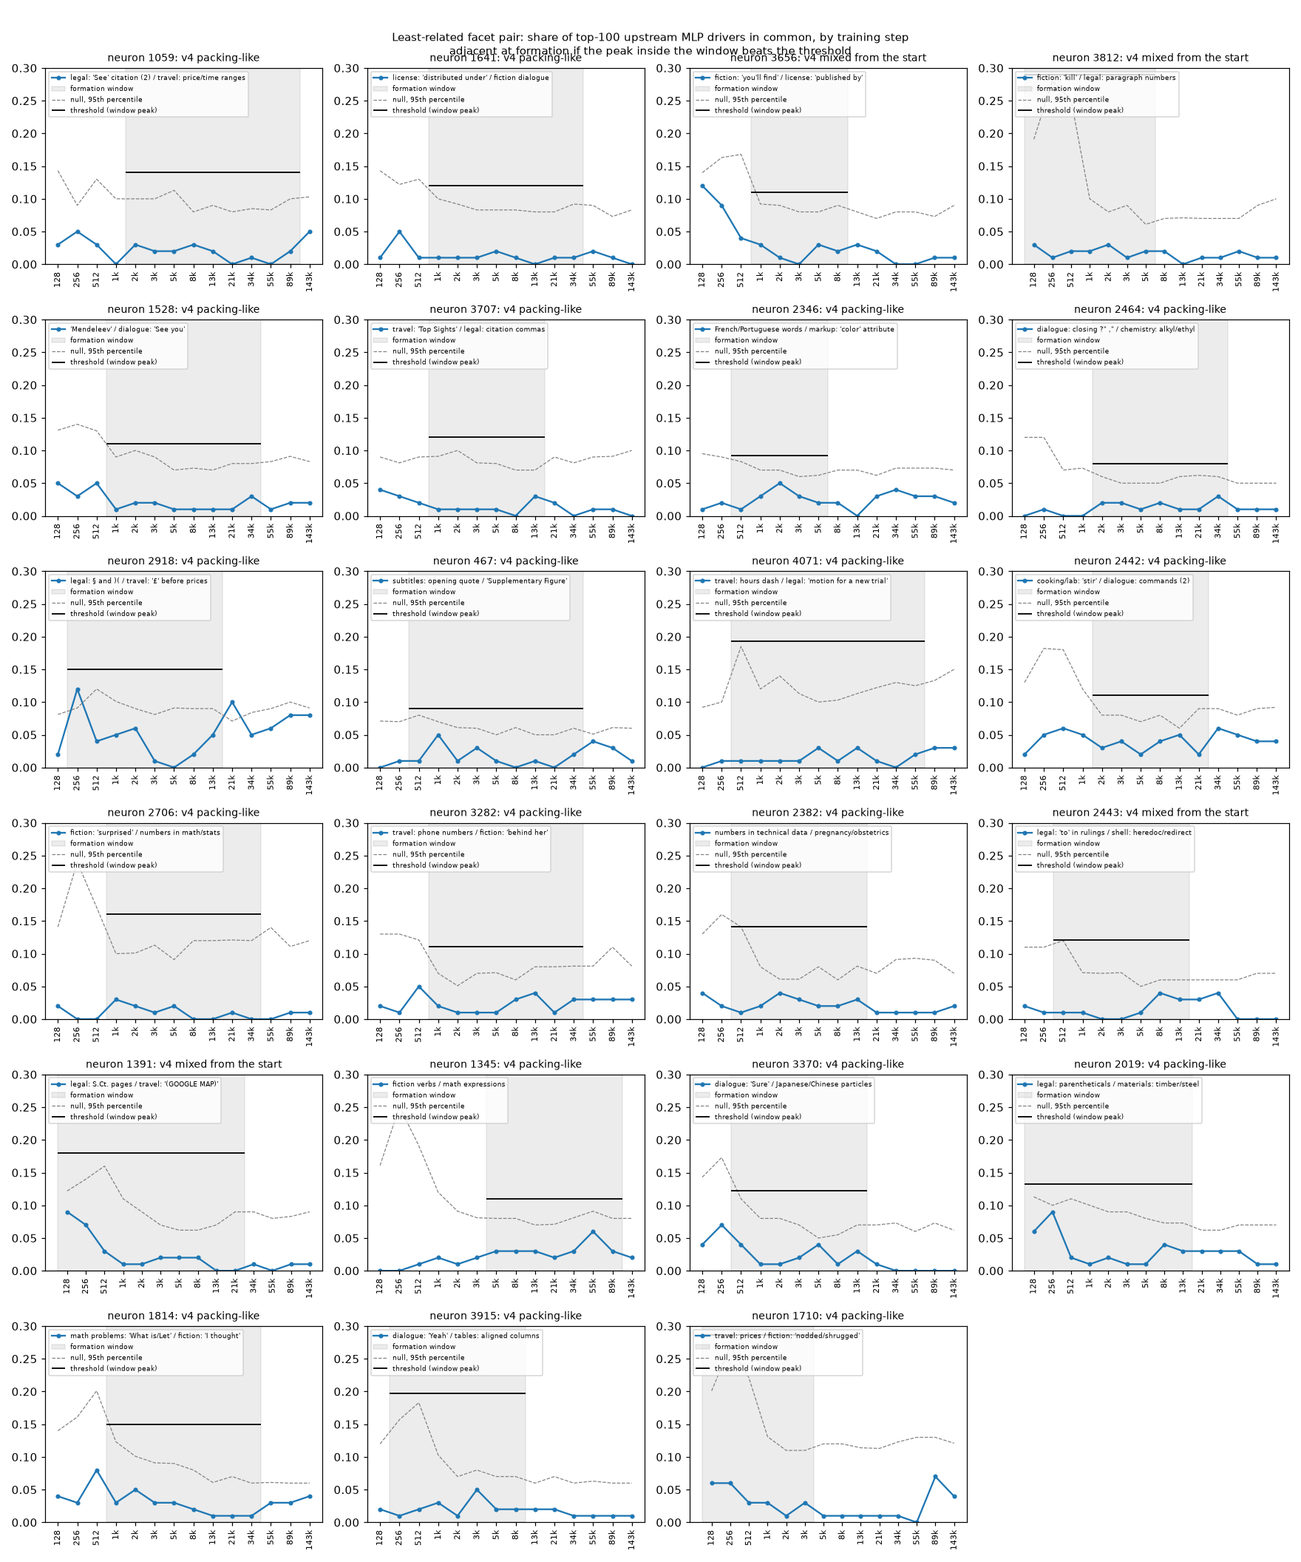
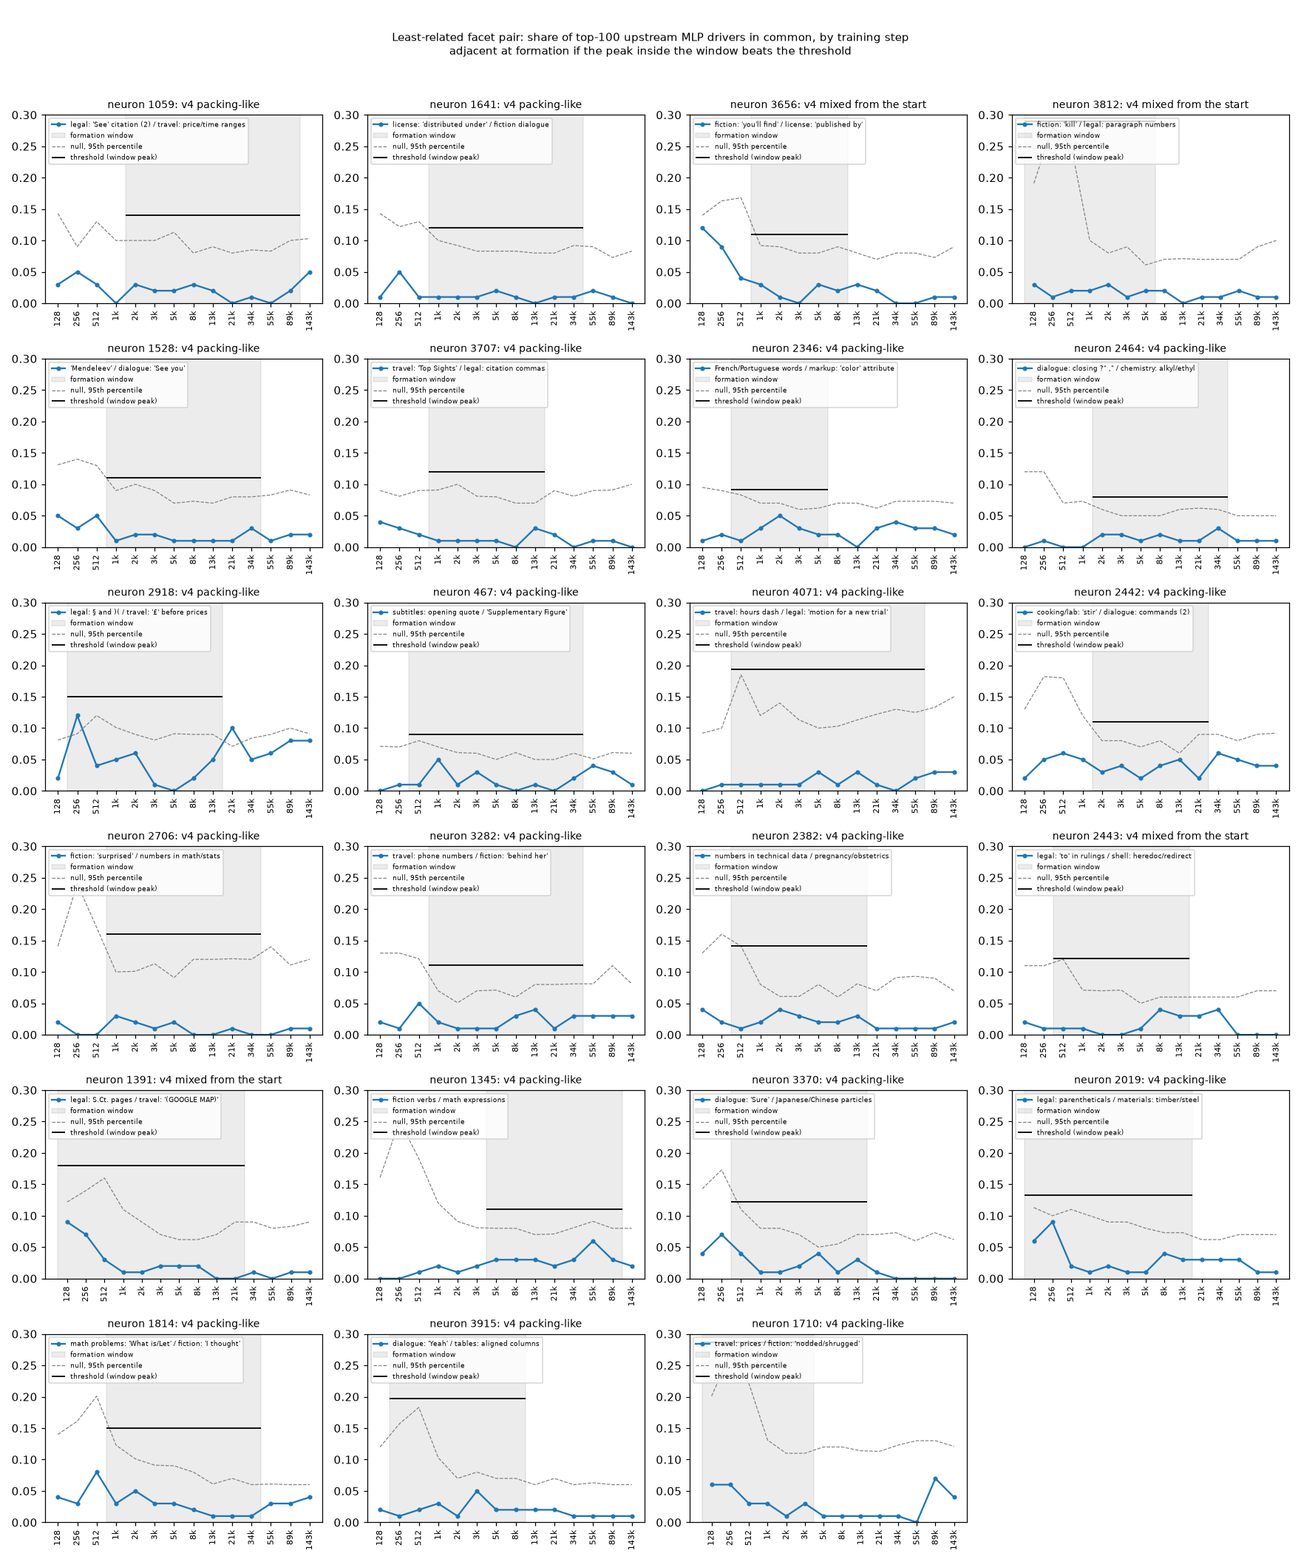
Add post-review checks to v4 and a non-circular head test
An independent review found no bugs but asked for checks the README
quoted from scratch scripts. They are now exploratory stats in the
pipeline. Also fixes the figure title overlap and report facet names.

diff --git a/recgen/analyze_v4.py b/recgen/analyze_v4.py
@@ -35,7 +35,8 @@ def step_summary(step: int, candidates: list[dict]) -> dict:
     rows = {(c["neuron"], f): [row[(w, p)] for w, p, _ in facet] for c in candidates for f, facet in enumerate(c["facets"])}
     shifts = {key: scaled[r].mean(axis=0) - scaled[n_facet:].mean(axis=0) for key, r in rows.items()}
     head_shifts = {key: heads[r].mean(axis=0) - heads[n_facet:].mean(axis=0) for key, r in rows.items()}
-    summary = {"mlp": {}, "heads": {}, "gains": {}, "shares": {}, "reconstruction_error": float(data["reconstruction_error"])}
+    summary = {"mlp": {}, "heads": {}, "gains": {}, "rises": {}, "shares": {},
+               "reconstruction_error": float(data["reconstruction_error"])}
     for k, n in enumerate(neurons):
         for key in rows:
             summary["mlp"][n, key] = drivers(shifts[key] * coefficients[:, k], TOP_UNITS)
@@ -44,6 +45,7 @@ def step_summary(step: int, candidates: list[dict]) -> dict:
         k = neurons.index(n)
         summary["gains"][n, f] = float(np.median(data["pre"][r, k]) - np.median(data["pre"][n_facet:, k]))
         rise = {p: float(data[f"part_{p}"][r, k].mean() - data[f"part_{p}"][n_facet:, k].mean()) for p in PARTS}
+        summary["rises"][n, f] = rise
         summary["shares"][n, f] = {p: v / sum(rise.values()) for p, v in rise.items()}
     return summary
 
@@ -156,6 +158,54 @@ def summarize(results: list[dict], steps: list[dict], v1_rows: dict) -> dict:
     return summary
 
 
+def exploratory_stats(results: list[dict], steps: list[dict], v1_rows: dict) -> dict:
+    """Not pre-registered: checks added after an independent review of the first v4 results."""
+    least = {r["neuron"]: least_related_pair(v1_rows[r["neuron"]]) for r in results}
+    # Does v4's formation timing agree with v1's emergence order for the least-related pair?
+    order, concurrent = Counter(), 0
+    for r in results:
+        i, j = map(int, least[r["neuron"]].split("-"))
+        wi, wj = r["formation_windows"][i], r["formation_windows"][j]
+        concurrent += wi[0] <= wj[1] and wj[0] <= wi[1]
+        ei, ej = r["emergence_steps"][i], r["emergence_steps"][j]
+        if ei != ej:
+            earlier, later = (wi, wj) if ei < ej else (wj, wi)
+            order["v1-later facet starts forming first" if later[0] < earlier[0]
+                  else "both start at the same checkpoint" if later[0] == earlier[0] else "same order as v1"] += 1
+    # Uncorrected: in-window checkpoints where an unrelated pair beats that checkpoint's null 95th percentile.
+    beats, tests = 0, 0
+    for r in results:
+        for p in r["mlp"]["pairs"].values():
+            if p["v2_adjacent"] or not p.get("window"):
+                continue
+            for t in range(STEPS.index(p["window"][0]), STEPS.index(p["window"][1]) + 1):
+                beats += p["series"][t] > p["null_p95_series"][t]
+                tests += 1
+    least_above = {r["neuron"]: sum(s > q for s, q in zip(p["series"], p["null_p95_series"]))
+                   for r in results for p in [r["mlp"]["pairs"][least[r["neuron"]]]]}
+    # Head drivers judged at the end by heads too, instead of by v2's MLP adjacency.
+    heads_formation_not_end = [f"{r['neuron']} {k}" for r in results for k, p in r["heads"]["pairs"].items()
+                               if p.get("window") and p["adjacent"] and p["series"][-1] <= p["null_p95_series"][-1]]
+    # Pooled source shares: each source's summed rise over all facets, over the summed total rise.
+    pooled = {part: {} for part in ("mlp_neurons", "attention_heads", "embedding")}
+    nonpositive = {}
+    for step, s in zip(STEPS, steps):
+        rises = list(s["rises"].values())
+        total = sum(sum(rise.values()) for rise in rises)
+        for part in pooled:
+            pooled[part][str(step)] = round(sum(rise[part] for rise in rises) / total, 3)
+        nonpositive[str(step)] = sum(sum(rise.values()) <= 0 for rise in rises)
+    return {
+        "least_related_windows_overlapping": concurrent,
+        "least_related_formation_order_vs_v1": order,
+        "unrelated_in_window_checkpoints_above_step_null_p95": f"{beats} of {tests}",
+        "least_related_checkpoints_above_step_null_p95": {n: c for n, c in least_above.items() if c},
+        "heads_adjacent_at_formation_not_at_end_by_heads": heads_formation_not_end,
+        "pooled_source_share_by_step": pooled,
+        "facets_with_nonpositive_rise_by_step": nonpositive,
+    }
+
+
 def write_report(results: list[dict], hand_picked: dict, v1_rows: dict) -> None:
     lines = ["# v4 results per neuron\n",
              "For each facet pair: the formation window (steps), the largest driver overlap inside it (peak), "
@@ -163,11 +213,11 @@ def write_report(results: list[dict], hand_picked: dict, v1_rows: dict) -> None:
              "adjacent at formation and at the final checkpoint (v2). MLP-neuron drivers are the primary measure.\n"]
     for r in results:
         n = r["neuron"]
-        names = hand_picked.get(str(n), {}).get("facets") or [f"facet {i}" for i in range(len(r["emergence_steps"]))]
+        names = hand_picked.get(str(n), {}).get("facets")
         lines.append(f"## Neuron {n}: v1 {r['v1_label']}, v2 {r['v2_label']}, v4 {r['mlp']['label']} "
                      f"(heads: {r['heads']['label']})\n")
-        lines += [f"- facet {i}, {name}: v1 emergence {s}, forms over {w}" for i, (name, s, w)
-                  in enumerate(zip(names, r["emergence_steps"], r["formation_windows"]))]
+        lines += [f"- facet {i}{', ' + names[i] if names else ''}: v1 emergence {s}, forms over {w}"
+                  for i, (s, w) in enumerate(zip(r["emergence_steps"], r["formation_windows"]))]
         lines.append(f"- least-related pair: {least_related_pair(v1_rows[n])}\n")
         for kind in KINDS:
             for key, p in r[kind]["pairs"].items():
@@ -192,6 +242,7 @@ def main() -> None:
     results = [neuron_results(c["neuron"], len(c["facets"]), facet_keys, steps, v1_rows[c["neuron"]], v2_rows[c["neuron"]])
                for c in candidates]
     summary = summarize(results, steps, v1_rows)
+    summary["exploratory"] = exploratory_stats(results, steps, v1_rows)
     (RESULTS_DIR / "classification_v4.json").write_text(json.dumps({"summary": summary, "neurons": results}, indent=1))
     write_report(results, hand_picked, v1_rows)
     print(json.dumps(summary, indent=1))

diff --git a/tests/test_analyze_v4.py b/tests/test_analyze_v4.py
@@ -1,6 +1,6 @@
 import numpy as np
 
-from recgen.analyze_v4 import evaluate_pair, neuron_results
+from recgen.analyze_v4 import evaluate_pair, exploratory_stats, neuron_results
 from recgen.rubric import PACKING_LIKE, RECURSIVE_GENERALIZATION
 from recgen.rubric_v4 import STEPS
 
@@ -55,3 +55,27 @@ def test_evaluate_pair_ignores_overlap_outside_the_window():
     null = [np.zeros(T)] * 20
     assert not evaluate_pair(series, null, (2, 4))["adjacent"]
     assert evaluate_pair(series, null, (0, 4))["adjacent"]
+
+
+def test_exploratory_stats_on_one_hand_built_neuron():
+    window = [STEPS[0], STEPS[4]]  # five checkpoints
+    series = [0.2, 0.0, 0.2, 0.0, 0.0] + [0.0] * (T - 5)
+    null_p95 = [0.1] * T
+    results = [{
+        "neuron": 1,
+        "formation_windows": [[STEPS[0], STEPS[3]], [STEPS[1], STEPS[4]]],  # overlapping, facet 1 starts later
+        "emergence_steps": [STEPS[3], STEPS[6]],
+        "mlp": {"pairs": {"0-1": {"window": window, "series": series, "null_p95_series": null_p95,
+                                  "v2_adjacent": False, "adjacent": False}}},
+        "heads": {"pairs": {"0-1": {"window": window, "series": [1.0] * (T - 1) + [0.05], "null_p95_series": null_p95,
+                                    "v2_adjacent": False, "adjacent": True}}},
+    }]
+    rise = {"mlp_neurons": 1.0, "attention_heads": 3.0, "embedding": 0.0}
+    steps = [{"rises": {(1, 0): rise, (1, 1): rise}} for _ in range(T)]
+    stats = exploratory_stats(results, steps, {1: {"facet_similarities": {"0-1": -0.1}}})
+    assert stats["least_related_windows_overlapping"] == 1
+    assert stats["least_related_formation_order_vs_v1"] == {"same order as v1": 1}
+    assert stats["unrelated_in_window_checkpoints_above_step_null_p95"] == "2 of 5"
+    assert stats["least_related_checkpoints_above_step_null_p95"] == {1: 2}
+    assert stats["heads_adjacent_at_formation_not_at_end_by_heads"] == ["1 0-1"]
+    assert stats["pooled_source_share_by_step"]["attention_heads"][str(STEPS[0])] == 0.75

diff --git a/tests/test_formation.py b/tests/test_formation.py
@@ -45,6 +45,32 @@ def test_heads_add_up_to_v2s_attention_term_minus_its_bias(tiny_model, corpus):
     np.testing.assert_allclose(cap["part_mlp_neurons"], v2["mlp neurons"], atol=1e-4)
 
 
+def test_changing_one_heads_weights_moves_only_that_heads_term(tiny_model, corpus):
+    """Independent of how capture slices the output projection: GPTNeoX groups query_key_value's
+    output rows by head, so perturbing head 2's rows in layer 1 can change only head 2's
+    term in that layer (and nothing in layer 0). Terms are compared before dividing by the
+    LayerNorm scale, which the perturbation changes for every term alike."""
+
+    def raw_heads():
+        cap = capture(tiny_model, corpus, EXAMPLES, NEURONS, layer=LAYER)
+        return cap["heads"] * cap["sigma"][:, None, None, None]
+
+    before = raw_heads()
+    qkv = tiny_model.gpt_neox.layers[1].attention.query_key_value
+    rows = slice(2 * 3 * 4, 3 * 3 * 4)  # head 2 of 4; hidden 16, so 4 dims per head, times q, k, v
+    original = qkv.weight[rows].clone()
+    with torch.no_grad():
+        qkv.weight[rows] += torch.randn_like(original)
+    try:
+        after = raw_heads()
+    finally:
+        with torch.no_grad():
+            qkv.weight[rows] = original
+    np.testing.assert_allclose(after[:, 0], before[:, 0], atol=1e-5)
+    np.testing.assert_allclose(after[:, 1, [0, 1, 3]], before[:, 1, [0, 1, 3]], atol=1e-5)
+    assert np.abs(after[:, 1, 2] - before[:, 1, 2]).max() > 1e-2
+
+
 def test_a_single_head_term_matches_ablating_that_head_directly(tiny_model, corpus):
     """Zeroing head 2 of layer 1 before the output projection removes exactly its direct term
     from the next layer's input, so the term should equal the change in the linearized readout."""

diff --git a/recgen/plots_v4.py b/recgen/plots_v4.py
@@ -44,7 +44,7 @@ def plot_hand_picked(results, v1_rows, hand_picked, path) -> None:
         ax.axis("off")
     fig.suptitle("Least-related facet pair: share of top-100 upstream MLP drivers in common, by training step\n"
                  "adjacent at formation if the peak inside the window beats the threshold", fontsize=10)
-    fig.tight_layout()
+    fig.tight_layout(rect=(0, 0, 1, 0.97))  # leave room for the two-line title
     fig.savefig(path, dpi=110)
     plt.close(fig)
 

diff --git a/results/v4_neurons.md b/results/v4_neurons.md
@@ -55,8 +55,8 @@ For each facet pair: the formation window (steps), the largest driver overlap in
 
 ## Neuron 510: v1 packing-like, v2 packing-like, v4 packing-like (heads: packing-like)
 
-- facet 0, facet 0: v1 emergence 13000, forms over [2000, 8000]
-- facet 1, facet 1: v1 emergence 34000, forms over [256, 8000]
+- facet 0: v1 emergence 13000, forms over [2000, 8000]
+- facet 1: v1 emergence 34000, forms over [256, 8000]
 - least-related pair: 0-1
 
 - mlp 0-1: window 256 to 8000, peak 0.09 vs threshold 0.231: not adjacent at formation, not adjacent at the end
@@ -64,9 +64,9 @@ For each facet pair: the formation window (steps), the largest driver overlap in
 
 ## Neuron 2817: v1 packing-like, v2 packing-like, v4 packing-like (heads: packing-like)
 
-- facet 0, facet 0: v1 emergence 21000, forms over [2000, 5000]
-- facet 1, facet 1: v1 emergence 8000, forms over [1000, 5000]
-- facet 2, facet 2: v1 emergence 13000, forms over [2000, 5000]
+- facet 0: v1 emergence 21000, forms over [2000, 5000]
+- facet 1: v1 emergence 8000, forms over [1000, 5000]
+- facet 2: v1 emergence 13000, forms over [2000, 5000]
 - least-related pair: 0-2
 
 - mlp 0-1: window 1000 to 5000, peak 0.03 vs threshold 0.1: not adjacent at formation, not adjacent at the end
@@ -78,9 +78,9 @@ For each facet pair: the formation window (steps), the largest driver overlap in
 
 ## Neuron 3068: v1 packing-like, v2 packing-like, v4 packing-like (heads: packing-like)
 
-- facet 0, facet 0: v1 emergence 34000, forms over [128, 13000]
-- facet 1, facet 1: v1 emergence 8000, forms over [3000, 8000]
-- facet 2, facet 2: v1 emergence 21000, forms over [1000, 13000]
+- facet 0: v1 emergence 34000, forms over [128, 13000]
+- facet 1: v1 emergence 8000, forms over [3000, 8000]
+- facet 2: v1 emergence 21000, forms over [1000, 13000]
 - least-related pair: 0-2
 
 - mlp 0-1: window 128 to 13000, peak 0.08 vs threshold 0.15: not adjacent at formation, not adjacent at the end
@@ -101,9 +101,9 @@ For each facet pair: the formation window (steps), the largest driver overlap in
 
 ## Neuron 93: v1 packing-like, v2 packing-like, v4 packing-like (heads: packing-like)
 
-- facet 0, facet 0: v1 emergence 34000, forms over [5000, 34000]
-- facet 1, facet 1: v1 emergence 34000, forms over [2000, 34000]
-- facet 2, facet 2: v1 emergence 21000, forms over [8000, 21000]
+- facet 0: v1 emergence 34000, forms over [5000, 34000]
+- facet 1: v1 emergence 34000, forms over [2000, 34000]
+- facet 2: v1 emergence 21000, forms over [8000, 21000]
 - least-related pair: 1-2
 
 - mlp 0-1: window 2000 to 34000, peak 0.03 vs threshold 0.143: not adjacent at formation, not adjacent at the end
@@ -124,8 +124,8 @@ For each facet pair: the formation window (steps), the largest driver overlap in
 
 ## Neuron 782: v1 packing-like, v2 packing-like, v4 packing-like (heads: packing-like)
 
-- facet 0, facet 0: v1 emergence 21000, forms over [256, 5000]
-- facet 1, facet 1: v1 emergence 8000, forms over [128, 3000]
+- facet 0: v1 emergence 21000, forms over [256, 5000]
+- facet 1: v1 emergence 8000, forms over [128, 3000]
 - least-related pair: 0-1
 
 - mlp 0-1: window 128 to 5000, peak 0.07 vs threshold 0.15: not adjacent at formation, not adjacent at the end
@@ -133,9 +133,9 @@ For each facet pair: the formation window (steps), the largest driver overlap in
 
 ## Neuron 2976: v1 packing-like, v2 recursive generalization, v4 packing-like (heads: packing-like)
 
-- facet 0, facet 0: v1 emergence 8000, forms over [256, 8000]
-- facet 1, facet 1: v1 emergence 21000, forms over [2000, 8000]
-- facet 2, facet 2: v1 emergence 34000, forms over [2000, 34000]
+- facet 0: v1 emergence 8000, forms over [256, 8000]
+- facet 1: v1 emergence 21000, forms over [2000, 8000]
+- facet 2: v1 emergence 34000, forms over [2000, 34000]
 - least-related pair: 0-1
 
 - mlp 0-1: window 256 to 8000, peak 0.11 vs threshold 0.143: not adjacent at formation, adjacent at the end
@@ -147,9 +147,9 @@ For each facet pair: the formation window (steps), the largest driver overlap in
 
 ## Neuron 138: v1 packing-like, v2 packing-like, v4 packing-like (heads: packing-like)
 
-- facet 0, facet 0: v1 emergence 34000, forms over [13000, 21000]
-- facet 1, facet 1: v1 emergence 55000, forms over [34000, 55000]
-- facet 2, facet 2: v1 emergence 55000, forms over [21000, 34000]
+- facet 0: v1 emergence 34000, forms over [13000, 21000]
+- facet 1: v1 emergence 55000, forms over [34000, 55000]
+- facet 2: v1 emergence 55000, forms over [21000, 34000]
 - least-related pair: 1-2
 
 - mlp 0-1: window 13000 to 55000, peak 0.01 vs threshold 0.08: not adjacent at formation, not adjacent at the end
@@ -175,8 +175,8 @@ For each facet pair: the formation window (steps), the largest driver overlap in
 
 ## Neuron 2570: v1 packing-like, v2 packing-like, v4 packing-like (heads: packing-like)
 
-- facet 0, facet 0: v1 emergence 2000, forms over [256, 2000]
-- facet 1, facet 1: v1 emergence 21000, forms over [128, 8000]
+- facet 0: v1 emergence 2000, forms over [256, 2000]
+- facet 1: v1 emergence 21000, forms over [128, 8000]
 - least-related pair: 0-1
 
 - mlp 0-1: window 128 to 8000, peak 0.06 vs threshold 0.223: not adjacent at formation, not adjacent at the end
@@ -207,8 +207,8 @@ For each facet pair: the formation window (steps), the largest driver overlap in
 
 ## Neuron 4012: v1 packing-like, v2 packing-like, v4 packing-like (heads: packing-like)
 
-- facet 0, facet 0: v1 emergence 13000, forms over [256, 3000]
-- facet 1, facet 1: v1 emergence 8000, forms over [128, 8000]
+- facet 0: v1 emergence 13000, forms over [256, 3000]
+- facet 1: v1 emergence 8000, forms over [128, 8000]
 - least-related pair: 0-1
 
 - mlp 0-1: window 128 to 8000, peak 0.03 vs threshold 0.17: not adjacent at formation, not adjacent at the end
@@ -225,8 +225,8 @@ For each facet pair: the formation window (steps), the largest driver overlap in
 
 ## Neuron 3686: v1 packing-like, v2 packing-like, v4 packing-like (heads: packing-like)
 
-- facet 0, facet 0: v1 emergence 34000, forms over [1000, 8000]
-- facet 1, facet 1: v1 emergence 8000, forms over [2000, 5000]
+- facet 0: v1 emergence 34000, forms over [1000, 8000]
+- facet 1: v1 emergence 8000, forms over [2000, 5000]
 - least-related pair: 0-1
 
 - mlp 0-1: window 1000 to 8000, peak 0.04 vs threshold 0.131: not adjacent at formation, not adjacent at the end
@@ -248,8 +248,8 @@ For each facet pair: the formation window (steps), the largest driver overlap in
 
 ## Neuron 4094: v1 packing-like, v2 packing-like, v4 packing-like (heads: packing-like)
 
-- facet 0, facet 0: v1 emergence 21000, forms over [512, 5000]
-- facet 1, facet 1: v1 emergence 8000, forms over [2000, 5000]
+- facet 0: v1 emergence 21000, forms over [512, 5000]
+- facet 1: v1 emergence 8000, forms over [2000, 5000]
 - least-related pair: 0-1
 
 - mlp 0-1: window 512 to 5000, peak 0.06 vs threshold 0.14: not adjacent at formation, not adjacent at the end
@@ -298,8 +298,8 @@ For each facet pair: the formation window (steps), the largest driver overlap in
 
 ## Neuron 2757: v1 packing-like, v2 packing-like, v4 packing-like (heads: packing-like)
 
-- facet 0, facet 0: v1 emergence 34000, forms over [1000, 2000]
-- facet 1, facet 1: v1 emergence 13000, forms over [1000, 13000]
+- facet 0: v1 emergence 34000, forms over [1000, 2000]
+- facet 1: v1 emergence 13000, forms over [1000, 13000]
 - least-related pair: 0-1
 
 - mlp 0-1: window 1000 to 13000, peak 0.04 vs threshold 0.111: not adjacent at formation, not adjacent at the end
@@ -330,8 +330,8 @@ For each facet pair: the formation window (steps), the largest driver overlap in
 
 ## Neuron 61: v1 packing-like, v2 packing-like, v4 packing-like (heads: packing-like)
 
-- facet 0, facet 0: v1 emergence 13000, forms over [128, 8000]
-- facet 1, facet 1: v1 emergence 34000, forms over [2000, 13000]
+- facet 0: v1 emergence 13000, forms over [128, 8000]
+- facet 1: v1 emergence 34000, forms over [2000, 13000]
 - least-related pair: 0-1
 
 - mlp 0-1: window 128 to 13000, peak 0.07 vs threshold 0.18: not adjacent at formation, not adjacent at the end
@@ -339,8 +339,8 @@ For each facet pair: the formation window (steps), the largest driver overlap in
 
 ## Neuron 4010: v1 packing-like, v2 recursive generalization, v4 recursive generalization (heads: recursive generalization)
 
-- facet 0, facet 0: v1 emergence 13000, forms over [2000, 8000]
-- facet 1, facet 1: v1 emergence 3000, forms over [2000, 3000]
+- facet 0: v1 emergence 13000, forms over [2000, 8000]
+- facet 1: v1 emergence 3000, forms over [2000, 3000]
 - least-related pair: 0-1
 
 - mlp 0-1: window 2000 to 8000, peak 0.14 vs threshold 0.12: adjacent at formation, adjacent at the end
@@ -348,8 +348,8 @@ For each facet pair: the formation window (steps), the largest driver overlap in
 
 ## Neuron 682: v1 mixed from the start, v2 mixed from the start, v4 mixed from the start (heads: mixed from the start)
 
-- facet 0, facet 0: v1 emergence 34000, forms over [512, 34000]
-- facet 1, facet 1: v1 emergence 34000, forms over [2000, 13000]
+- facet 0: v1 emergence 34000, forms over [512, 34000]
+- facet 1: v1 emergence 34000, forms over [2000, 13000]
 - least-related pair: 0-1
 
 - mlp 0-1: window 512 to 34000, peak 0.04 vs threshold 0.22: not adjacent at formation, not adjacent at the end
@@ -357,11 +357,11 @@ For each facet pair: the formation window (steps), the largest driver overlap in
 
 ## Neuron 1228: v1 packing-like, v2 mixed from the start, v4 mixed from the start (heads: mixed from the start)
 
-- facet 0, facet 0: v1 emergence 3000, forms over [1000, 5000]
-- facet 1, facet 1: v1 emergence 21000, forms over [5000, 21000]
-- facet 2, facet 2: v1 emergence 3000, forms over [2000, 5000]
-- facet 3, facet 3: v1 emergence 3000, forms over [512, 5000]
-- facet 4, facet 4: v1 emergence 5000, forms over [512, 5000]
+- facet 0: v1 emergence 3000, forms over [1000, 5000]
+- facet 1: v1 emergence 21000, forms over [5000, 21000]
+- facet 2: v1 emergence 3000, forms over [2000, 5000]
+- facet 3: v1 emergence 3000, forms over [512, 5000]
+- facet 4: v1 emergence 5000, forms over [512, 5000]
 - least-related pair: 2-3
 
 - mlp 0-1: window 1000 to 21000, peak 0.06 vs threshold 0.12: not adjacent at formation, not adjacent at the end
@@ -454,9 +454,9 @@ For each facet pair: the formation window (steps), the largest driver overlap in
 
 ## Neuron 4052: v1 packing-like, v2 packing-like, v4 packing-like (heads: packing-like)
 
-- facet 0, facet 0: v1 emergence 13000, forms over [512, 5000]
-- facet 1, facet 1: v1 emergence 34000, forms over [2000, 13000]
-- facet 2, facet 2: v1 emergence 34000, forms over [3000, 21000]
+- facet 0: v1 emergence 13000, forms over [512, 5000]
+- facet 1: v1 emergence 34000, forms over [2000, 13000]
+- facet 2: v1 emergence 34000, forms over [3000, 21000]
 - least-related pair: 0-1
 
 - mlp 0-1: window 512 to 13000, peak 0.05 vs threshold 0.163: not adjacent at formation, not adjacent at the end
